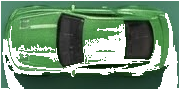
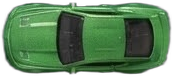
Rebuild car cutouts with rembg for clean full sprites.

diff --git a/index.html b/index.html
@@ -436,7 +436,7 @@
     <section class="panel" id="menu">
       <div class="card">
         <h1>Halka Arabaları</h1>
-        <p id="build-tag" style="margin:0 0 10px;font-size:13px;font-weight:800;color:#f0a202;">Sürüm 14 · Tam araba sayfası</p>
+        <p id="build-tag" style="margin:0 0 10px;font-size:13px;font-weight:800;color:#f0a202;">Sürüm 15 · Tam araba sayfası</p>
         <p style="margin:0 0 8px;font-size:14px;">Çek-bırak, halkaya dur, botu yen. Oyunda Menü ile geri dön.</p>
         <p id="menu-best"></p>
         <button id="open-collection" class="garage-entry" type="button">
@@ -547,7 +547,7 @@
     let CAR_COUNT = PLAYER_COLORS.length;
     function carFileUrl(i) {
       const file = (ATLAS && ATLAS.cars[i] && ATLAS.cars[i].file) ? ATLAS.cars[i].file : ("car_" + String(i).padStart(2, "0") + ".png");
-      return "cars/" + file + "?v=14";
+      return "cars/" + file + "?v=15";
     }
     function punchCrop(img) {
       const w = img.naturalWidth;
@@ -594,12 +594,12 @@
         carSheets[i] = sheet;
         if (i === 0) carSheets[2] = sheet;
       };
-      im.src = src + "?v=14";
+      im.src = src + "?v=15";
     });
     function loadCarImages(meta) {
       carImages = meta.cars.map((c, i) => {
         const im = new Image();
-        im.src = "cars/" + (c.file || ("car_" + String(i).padStart(2, "0") + ".png")) + "?v=14";
+        im.src = "cars/" + (c.file || ("car_" + String(i).padStart(2, "0") + ".png")) + "?v=15";
         return im;
       });
     }
@@ -616,13 +616,13 @@
       refreshMenuBest();
       if (state === "collection") renderCollection();
     }
-    fetch("cars/atlas.json?v=14")
+    fetch("cars/atlas.json?v=15")
       .then((r) => r.json())
       .then((meta) => new Promise((resolve, reject) => {
         const img = new Image();
         img.onload = () => resolve({ meta, img });
         img.onerror = reject;
-        img.src = "cars/atlas.png?v=14";
+        img.src = "cars/atlas.png?v=15";
       }))
       .then(({ meta, img }) => applyAtlas(meta, img))
       .catch(() => { /* atlas yoksa renk yedekleri kalır */ });
